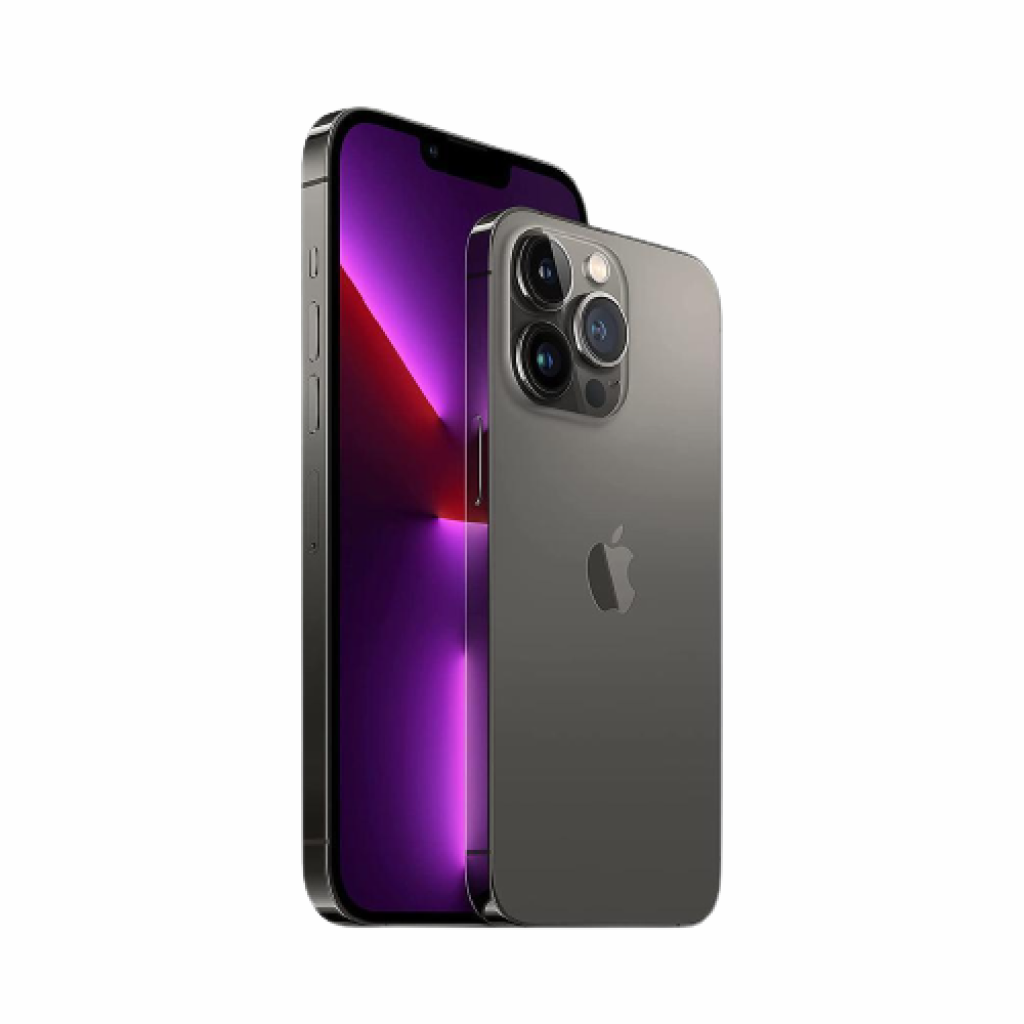
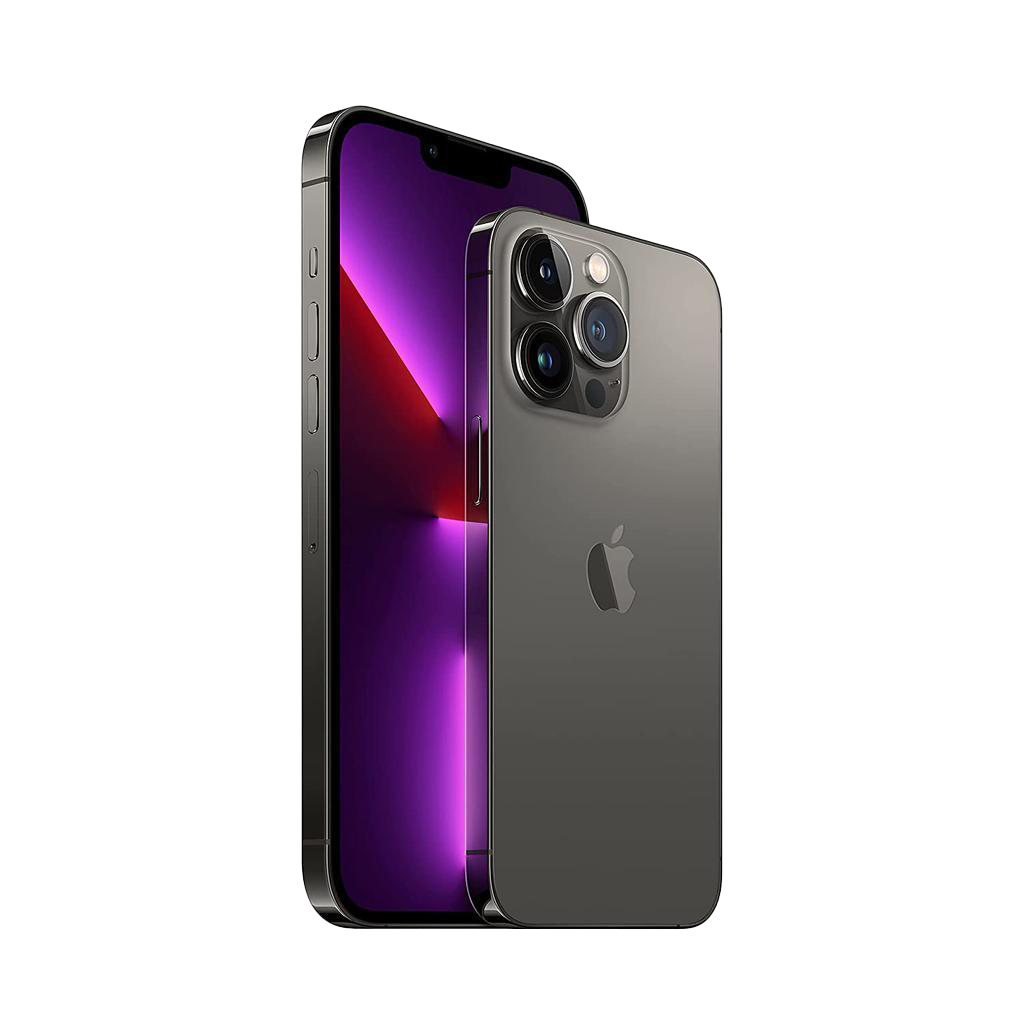
edit data

diff --git a/src/data/categories.js b/src/data/categories.js
@@ -119,7 +119,7 @@ export const categories = [
     category: 'tablets',
     name: 'Tablets',
     slug: 'tablets',
-    image: '/images/ipad-pro-front-silver.png',
+    image: '/images/ipad-pro-front-back-silver.png',
     products: [
       {
         id: 6,
@@ -245,7 +245,7 @@ export const categories = [
     categoryId: 2,
     name: 'Smartwatches',
     slug: 'smartwatches',
-    image: '/images/applewatch-front-midnight.png',
+    image: '/images/applewatch-series-7-front-midnight.png',
     products: [
       {
         id: 10,
@@ -312,7 +312,7 @@ export const categories = [
     categoryId: 3,
     name: 'Headphones',
     slug: 'headphones',
-    image: '/images/airpods-pro-top.png',
+    image: '/images/airpods-pro.png',
     products: [
       {
         id: 12,

diff --git a/src/components/Preview/Preview.styled.js b/src/components/Preview/Preview.styled.js
@@ -1,11 +1,11 @@
-import styled from "styled-components";
+import styled from 'styled-components'
 
 export const StyledAbout = styled.p`
-    font-size: 1.1rem;
-    line-height: 1.5;
-    text-align: left;
-    max-width: 600px;
-    padding: 1.5rem;
-    text-align: center;
-    
-`;
+  font-family: var(--font-family);
+  font-size: 1rem;
+    font-weight: 400;
+  text-align: left;
+  max-width: 600px;
+  padding: 1.5rem;
+  text-align: center;
+`

diff --git a/src/components/Preview/index.js b/src/components/Preview/index.js
@@ -1,5 +1,5 @@
 import Image from 'next/image'
-import PreviewImage from '../../../public/images/iphone-13-pro-camera-silver.png'
+import PreviewImage from '../../../public/images/iphone-13-pro-max-silver.png'
 import { StyledAbout } from './Preview.styled'
 import StyledLink from '../StyledLink'
 
